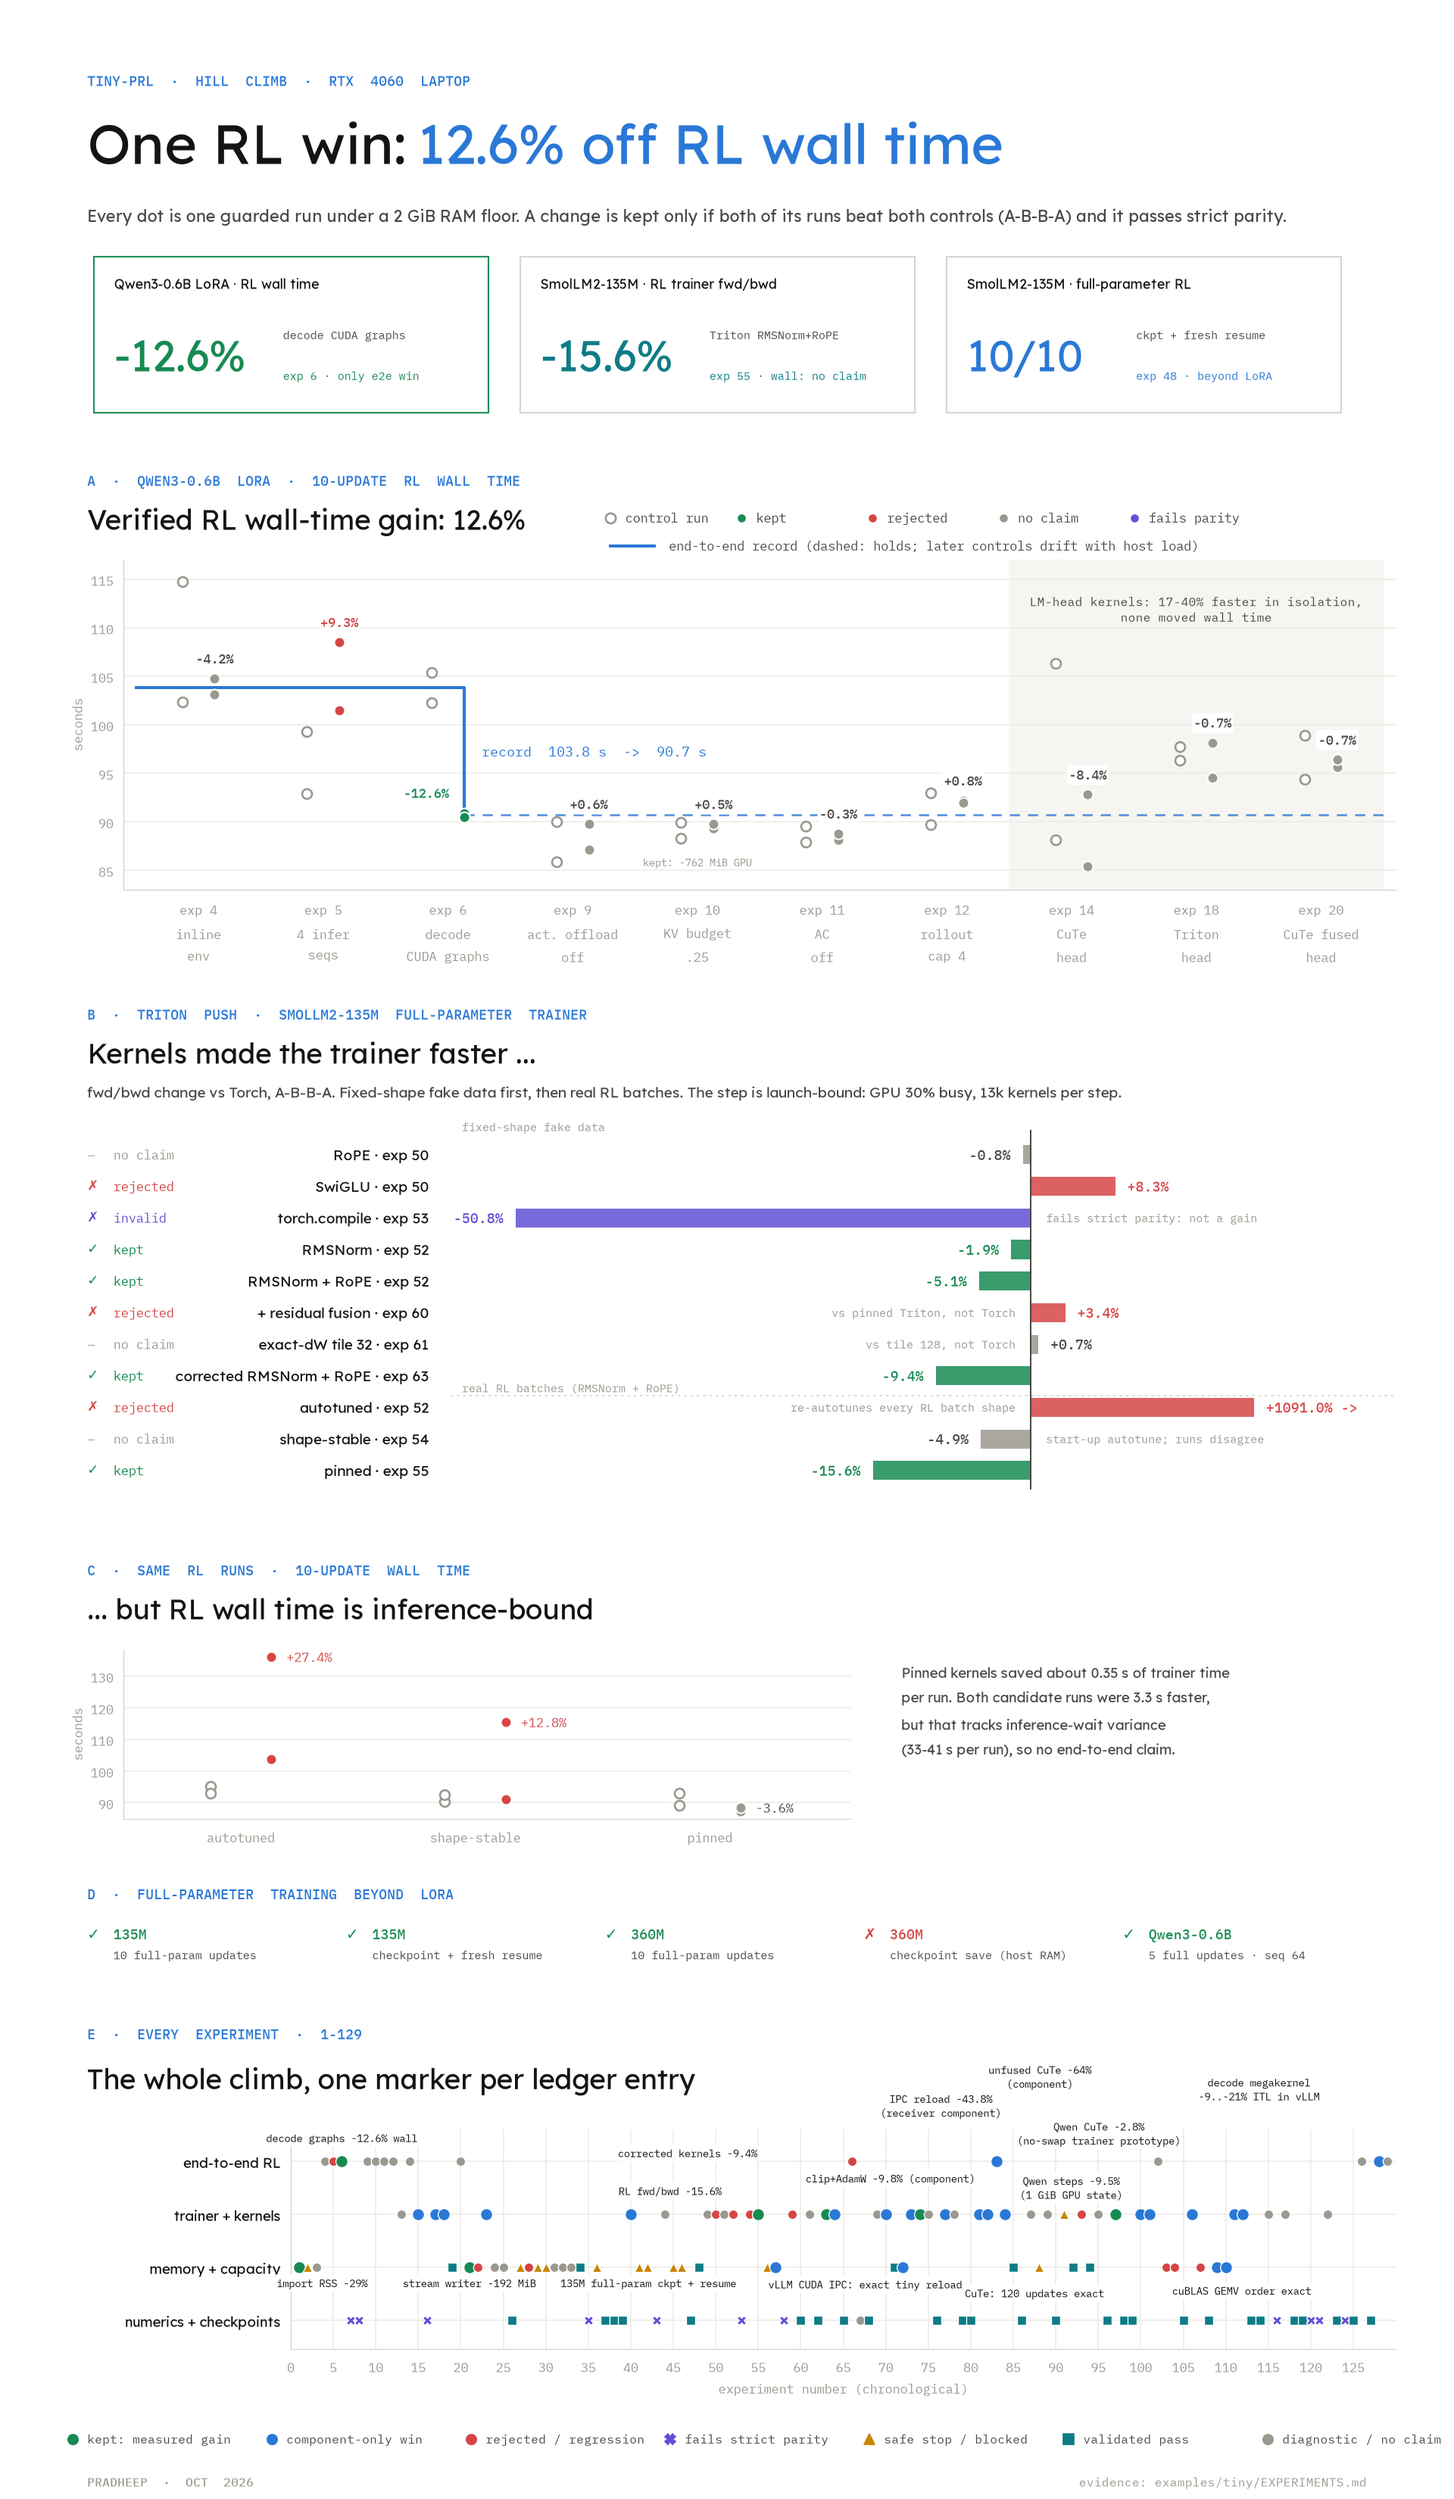
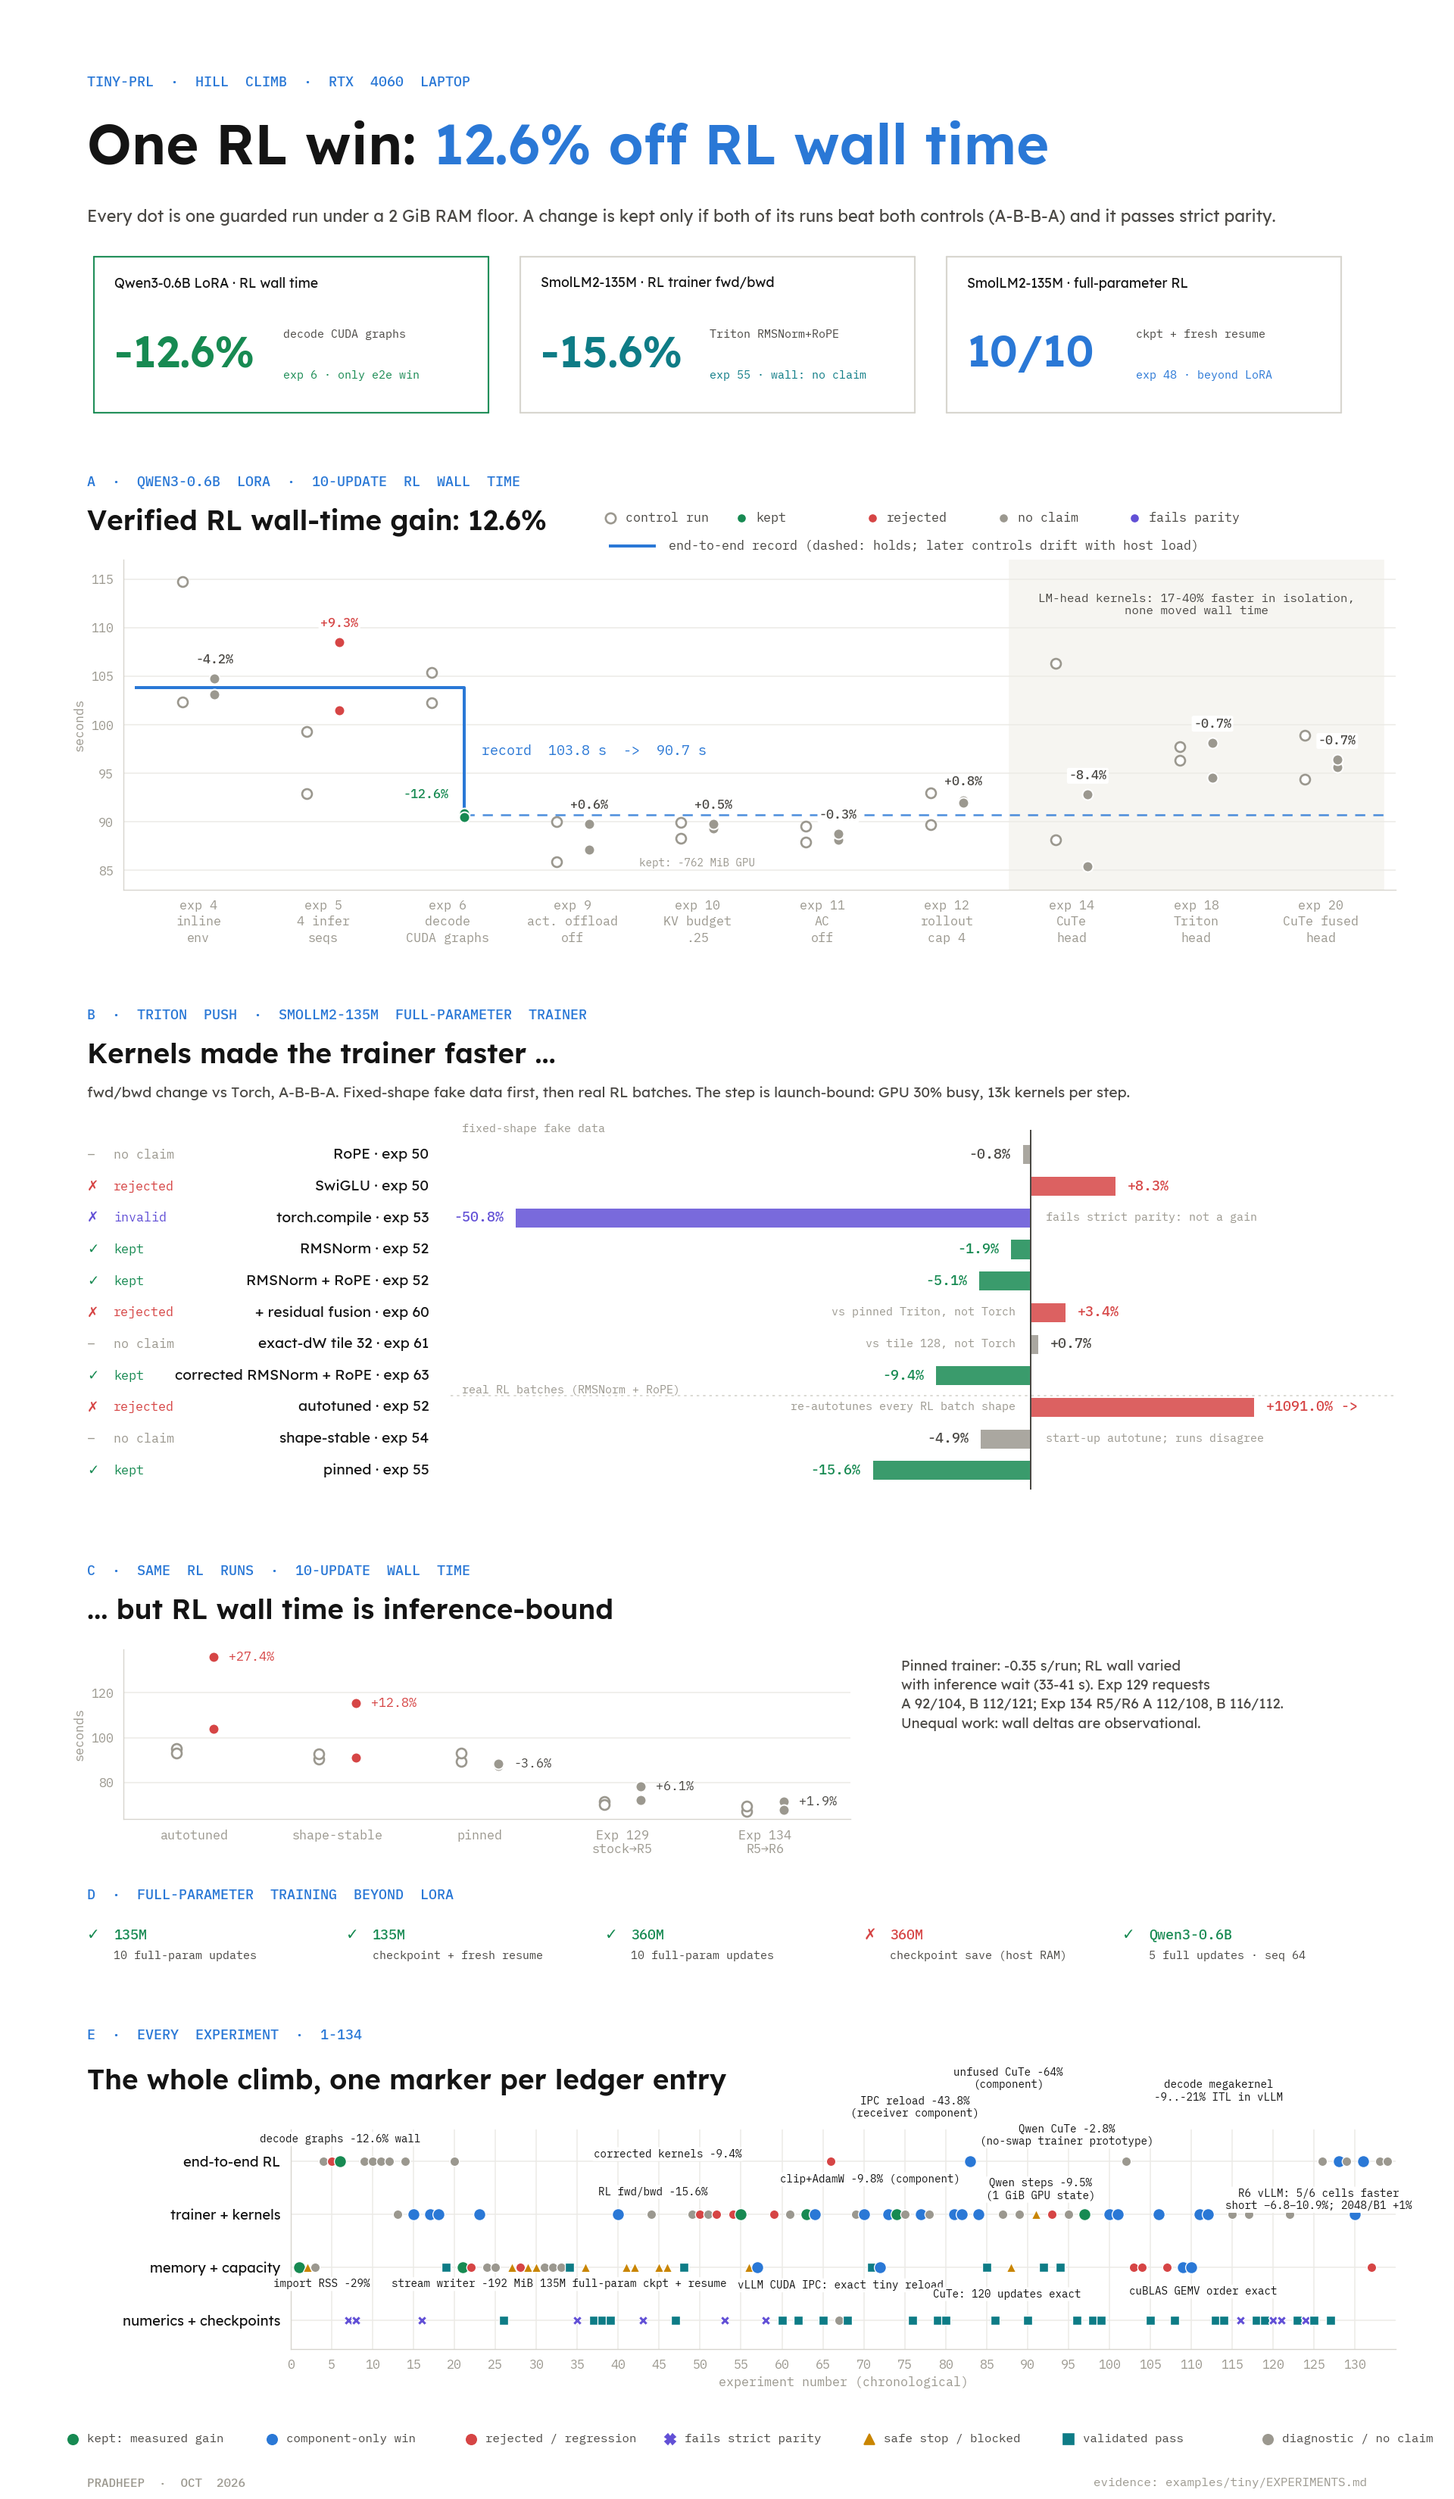
docs: add R6 RL runs to the wall-time graph

diff --git a/tools/plot_tiny_hillclimb.py b/tools/plot_tiny_hillclimb.py
@@ -225,6 +225,11 @@ EXPERIMENTS = {
     127: (NUM, "validated"),
     128: (E2E, "component"),
     129: (E2E, "none"),
+    130: (TRAIN, "component"),
+    131: (E2E, "component"),
+    132: (MEM, "rejected"),
+    133: (E2E, "none"),
+    134: (E2E, "none"),
 }
 # Callout text with (dx, dy) offsets in points, staggered so neighbours do not collide.
 CALLOUTS = {
@@ -243,6 +248,7 @@ CALLOUTS = {
     101: ("Qwen CuTe -2.8%\n(no-swap trainer prototype)", (-40, 55)),
     123: ("cuBLAS GEMV order exact", (-75, 20)),
     128: ("decode megakernel\n-9..-21% ITL in vLLM", (-95, 48)),
+    131: ("R6 vLLM: 5/6 cells faster\nshort −6.8–10.9%; 2048/B1 +1%", (-35, -38)),
 }
 
 MILESTONES = [
@@ -289,6 +295,31 @@ def rl_runs(root: Path, tag: str) -> dict[str, dict[str, float]]:
             "wall": load(base / tag / name / "guard/result.json")["elapsed_seconds"],
         }
     return runs
+
+
+def guarded_wall_runs(root: Path, directory: str) -> tuple[list[float], list[float]]:
+    base = root / directory
+    arms = {}
+    for name in ("A1", "B1", "B2", "A2"):
+        result = load(base / f"guard-{name}" / "result.json")
+        if result["returncode"] != 0 or result["stop_reason"] is not None:
+            raise ValueError(f"{directory}/guard-{name} did not complete cleanly")
+        arms[name] = result["elapsed_seconds"]
+    return [arms["A1"], arms["A2"]], [arms["B1"], arms["B2"]]
+
+
+def guarded_request_counts(root: Path, directory: str, output_prefix: str) -> dict[str, int]:
+    counts = {}
+    for name in ("A1", "A2", "B1", "B2"):
+        metrics = root / directory / "output" / f"{output_prefix}{name}" / "monitors/file/metrics.jsonl"
+        records = [json.loads(line) for line in metrics.read_text().splitlines()]
+        samples = [
+            record["inference/server0.0/request_success_total"]
+            for record in records
+            if "inference/server0.0/request_success_total" in record
+        ]
+        counts[name] = int(max(samples))
+    return counts
 
 
 def board_effect(root: Path, source: str, tag: str) -> tuple[float, bool]:
@@ -644,10 +675,22 @@ def main() -> None:
     fig.text(0.06, 0.19, "... but RL wall time is inference-bound", fontsize=22, color=INK, fontweight="semibold")
     ax = fig.add_axes([0.085, 0.09, 0.5, 0.085])
     style_axes(ax, mono)
-    for x, (label, tag) in enumerate([("autotuned", "triton"), ("shape-stable", "tritonfix"), ("pinned", "pinned")]):
-        runs = rl_runs(root, tag)
-        a, b = [runs["A1"]["wall"], runs["A2"]["wall"]], [runs["B1"]["wall"], runs["B2"]["wall"]]
-        color = CORAL if pct(a, b) > 5 else DIM
+    series = [
+        ("autotuned", "triton", "trainer"),
+        ("shape-stable", "tritonfix", "trainer"),
+        ("pinned", "pinned", "trainer"),
+        ("Exp 129\nstock→R5", "rollout-overhead-20261025/mk-abba-r1", "wall", "mk-abba-"),
+        ("Exp 134\nR5→R6", "megakernel-20261025/r6-rl-abba-r1", "wall", "r6-rl-"),
+    ]
+    for x, entry in enumerate(series):
+        label, tag, kind = entry[:3]
+        if kind == "trainer":
+            runs = rl_runs(root, tag)
+            a, b = [runs["A1"]["wall"], runs["A2"]["wall"]], [runs["B1"]["wall"], runs["B2"]["wall"]]
+            color = CORAL if pct(a, b) > 5 else DIM
+        else:
+            a, b = guarded_wall_runs(root, tag)
+            color = DIM
         ax.scatter([x - 0.13] * 2, a, s=60, facecolors=BG, edgecolors=DIM, linewidths=1.6, zorder=3)
         ax.scatter([x + 0.13] * 2, b, s=70, color=color, edgecolors=BG, linewidths=1.2, zorder=4)
         ax.annotate(
@@ -660,14 +703,18 @@ def main() -> None:
             fontfamily=mono,
             color=color if color != DIM else INK_2,
         )
-    ax.set_xticks(range(3), ["autotuned", "shape-stable", "pinned"])
-    ax.set_xlim(-0.5, 2.6)
+    ax.set_xticks(range(len(series)), [entry[0] for entry in series])
+    ax.set_xlim(-0.5, len(series) - 0.4)
     ax.set_ylabel("seconds", color=DIM, fontsize=10, fontfamily=mono)
+    exp129_counts = guarded_request_counts(root, series[3][1], series[3][3])
+    exp134_counts = guarded_request_counts(root, series[4][1], series[4][3])
     fig.text(
         0.62,
         0.17,
-        "Pinned kernels saved about 0.35 s of trainer time\nper run. Both candidate runs were "
-        "3.3 s faster,\nbut that tracks inference-wait variance\n(33-41 s per run), so no end-to-end claim.",
+        "Pinned trainer: -0.35 s/run; RL wall varied\nwith inference wait (33-41 s). Exp 129 requests\n"
+        f"A {exp129_counts['A1']}/{exp129_counts['A2']}, B {exp129_counts['B1']}/{exp129_counts['B2']}; "
+        f"Exp 134 R5/R6 A {exp134_counts['A1']}/{exp134_counts['A2']}, B {exp134_counts['B1']}/{exp134_counts['B2']}.\n"
+        "Unequal work: wall deltas are observational.",
         fontsize=11,
         color=INK_2,
         va="top",

diff --git a/examples/tiny/EXPERIMENTS.md b/examples/tiny/EXPERIMENTS.md
@@ -1194,3 +1194,20 @@ An isolated R7 prototype defers unpacking K/V vectors while preserving R6's four
 ## Experiment 133: higher RL concurrency remains an inconsistent wall-time result
 
 The existing twelve-run experiment compares `max_inflight` ceilings 4 and 8 in three A-B-B-A blocks, with otherwise matching recipes and ten trainer updates per arm. All guards returned 0. Both candidates beat both controls by full guarded process wall in only one of three blocks. The pooled full-wall mean is 7.42% lower at ceiling 8, but that mean is not a verified wall-time win. Orchestrator log intervals and summed trainer step times are separate metrics; their pooled changes are −12.43% and −13.53% respectively. These differ from the handoff's −4.2%/−10.2% estimates, so the raw-log calculations are retained with explicit metric definitions. No fixed startup/shutdown deductions are applied. Evidence: `outputs/rollout-overhead-20261025/inflight-abba-r1/` and `outputs/megakernel-20261025/r6-evidence-audit-r1/inflight-analysis.{md,json}`.
+
+## Experiment 134: integrated R6 completes real RL updates and reduces decode latency
+
+R6 ships in `prime-kernels` commit `47ed669` and is pinned by `deps/prime-kernels`. After a successful ten-update R6 smoke run, the same SmolLM2-135M full-parameter CUDA IPC recipe ran as an R5/R6 A-B-B-A, ten updates per arm. Controls import the unchanged R5 package exported from `17c7c32`; candidates import the pinned R6 submodule. Numerical settings and the task recipe are unchanged. Every worker logged the decode backend install, every run finished ten finite-loss updates, and all guards returned 0 with zero cgroup swap. Minimum available host RAM was 4.10 GiB and peak GPU memory was 5260 MiB.
+
+| Arm | Kernel | Full process wall | Sampled decode ITL | Sampled requests | Sampled generated tokens | Mean mismatch KL | Max mismatch KL |
+|---|---|---:|---:|---:|---:|---:|---:|
+| A1 | R5 | 66.93 s | 1.756 ms | 112 | 3740 | 0.00132 | 0.0647 |
+| B1 | R6 | 71.35 s | 1.627 ms | 116 | 3497 | 0.00145 | 0.1562 |
+| B2 | R6 | 67.50 s | 1.639 ms | 112 | 3701 | 0.00154 | 0.0730 |
+| A2 | R5 | 69.39 s | 1.761 ms | 108 | 3592 | 0.00118 | 0.0419 |
+
+R6's observed decode ITL is 7.14% lower and both candidates beat both controls on that metric. Mean mismatch KL is close to the controls, though B1's maximum is higher than either current control; the maximum remains below the earlier stock maximum of 0.228 in Experiment 129. This is a smoke and integration comparison, not a statistical quality evaluation.
+
+Full guarded process wall is 1.86% higher on average and fails the both-beat-both check. Async rollout work differs across arms, and B1 includes a package rebuild after the source path changed from the sibling checkout to the pinned submodule (library mtime falls inside B1 startup). No compilation time is subtracted, and no new RL wall-time win is claimed. Inference counters are periodically sampled before shutdown rather than complete shutdown totals. The graph's existing SmolLM2 wall-time panel now includes Experiments 129 and 134 as neutral observational measurements; the separate Qwen LoRA panel retains its own workload's history.
+
+Evidence: `outputs/megakernel-20261025/r6-rl-abba-r1/{comparison.json,A1.toml,B1.toml,B2.toml,A2.toml,guard-*/result.json,output/}`, plus `r6-rl-smoke-r1/`. The smoke run completed in 74.16 s, mean mismatch KL 0.00153, with zero cgroup swap and 5260 MiB GPU peak.
